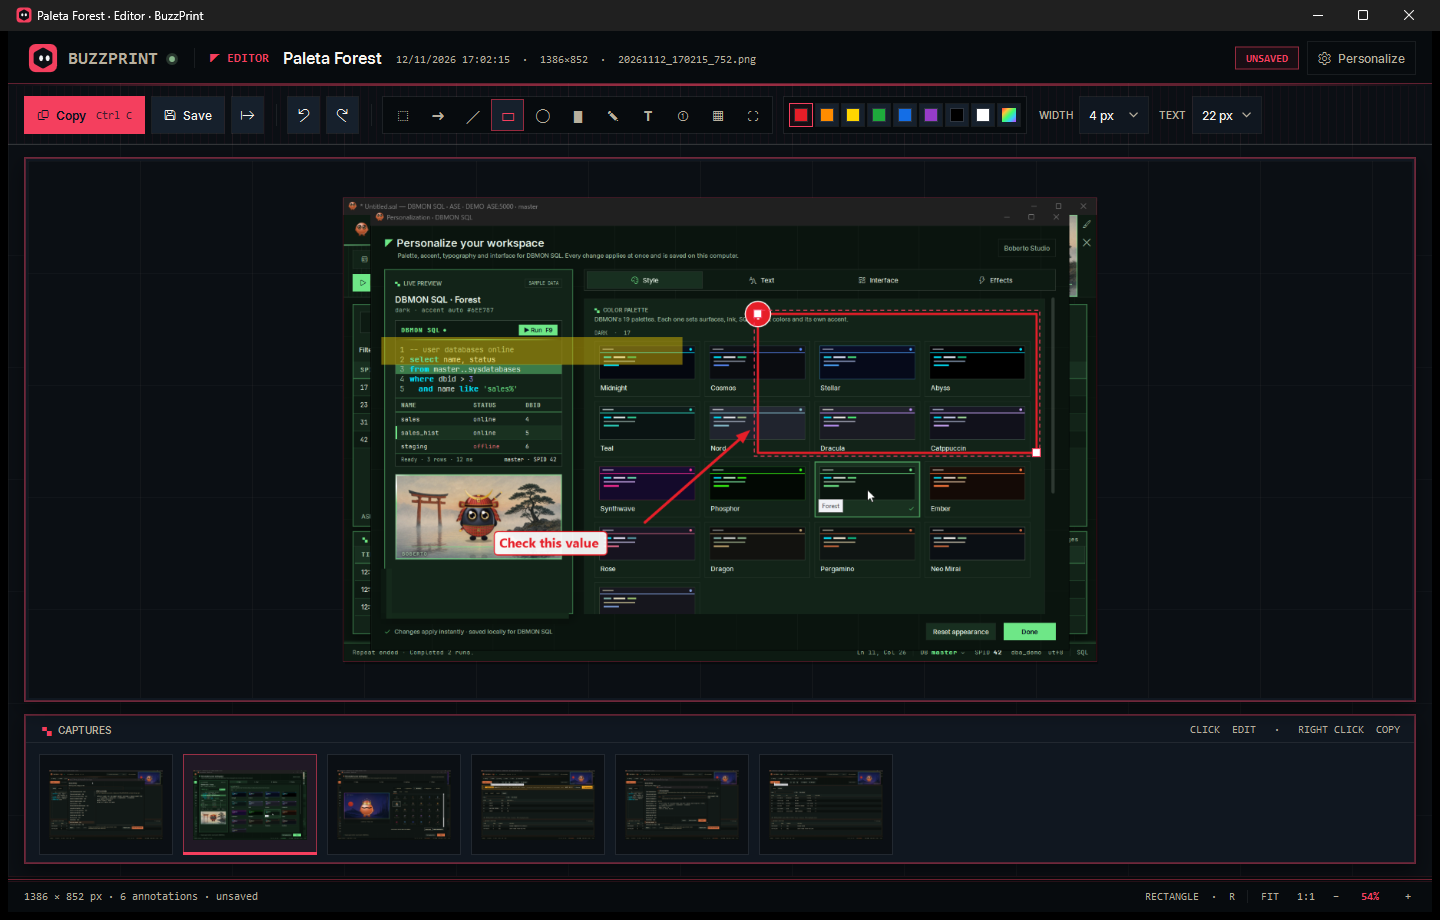
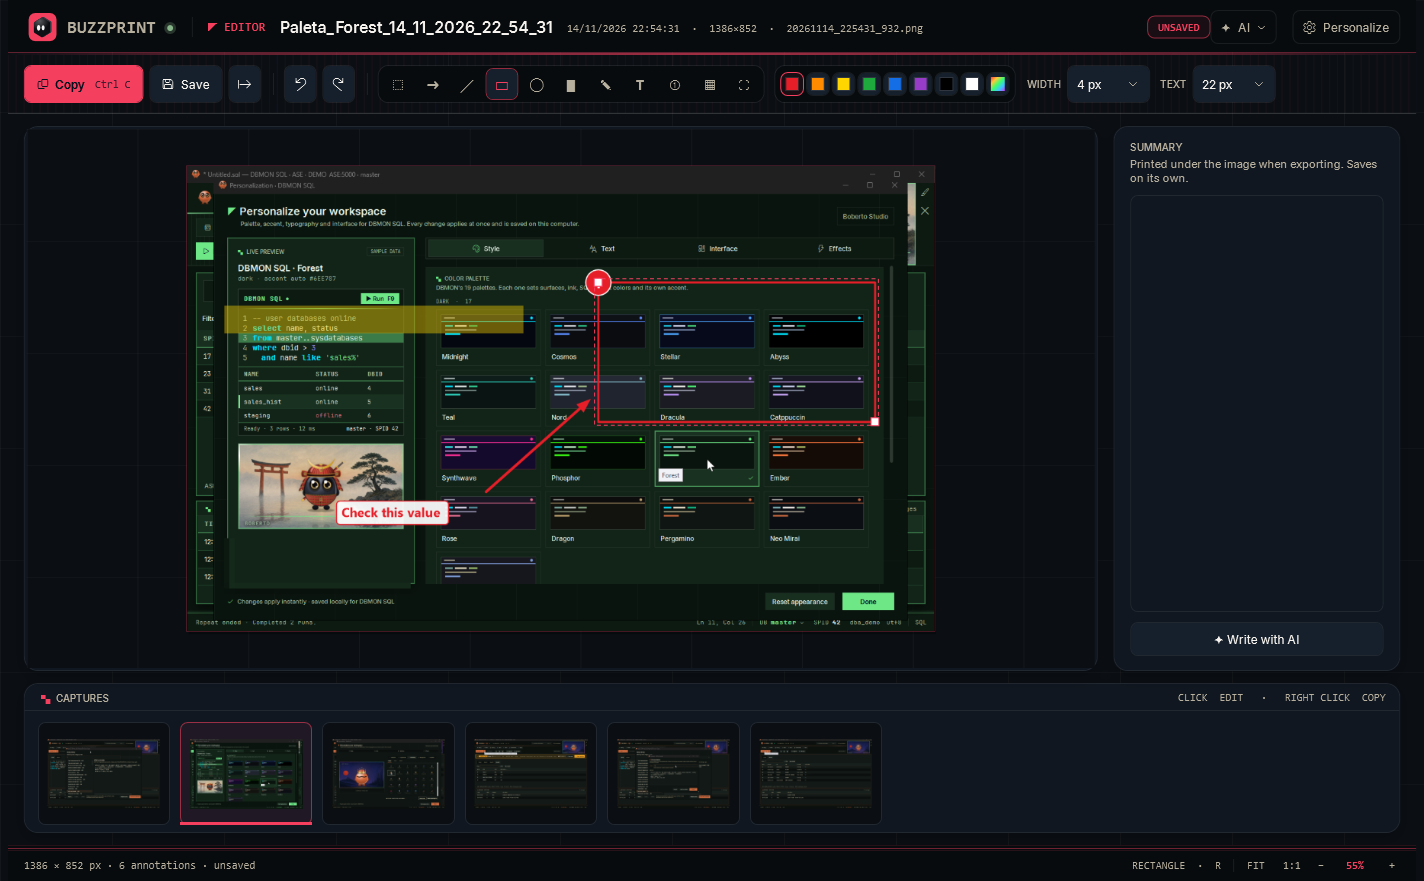
Release 0.5.0
Version 0.5.0; README covers the guide, document templates and the AI Preview build; fresh screenshots; build.ps1 names the AI Preview zip on its own (BuzzPrint-AI-Preview-<version>-win-x64.zip).

diff --git a/README.md b/README.md
@@ -1,6 +1,6 @@
 # BuzzPrint
 
-**Screen capture, recording and step-by-step docs for Windows.** Capture a region or window, record video and audio, annotate, pick any capture from a quick menu to paste it anywhere, and export a set of captures, in order, to PowerPoint, Word, PDF or a single image. With Boberto, a live companion you can dress up. English by default, Spanish built in. MIT licensed.
+**Screen capture, recording and step-by-step docs for Windows.** Capture a region or window, record video and audio, annotate, pick any capture from a quick menu to paste it anywhere, and export a set of captures, in order, to PowerPoint, Word, PDF or a single image with professional templates. An optional **AI Preview** build adds titles, summaries, step-by-step guides, incident reports and data redaction with the AI service you choose. With Boberto, a live companion you can dress up, and a built-in guide (`F1`). English by default, Spanish built in. MIT licensed.
 
 ![Library](docs/library.png)
 
@@ -12,9 +12,9 @@
 
 ## Download (no build needed)
 
-1. Download **`BuzzPrint-<version>-win-x64.zip`** from the [latest release](https://github.com/ChristianBuzzetti/BuzzPrint/releases/latest).
+1. Download **`BuzzPrint-<version>-win-x64.zip`** from the [latest release](https://github.com/ChristianBuzzetti/BuzzPrint/releases/latest) — or **`BuzzPrint-AI-Preview-<version>-win-x64.zip`** for the build with AI features.
 2. Extract it anywhere, for example `C:\Apps`. Avoid running it from inside the zip.
-3. Open `BuzzPrint\BuzzPrint.exe`.
+3. Open `BuzzPrint\BuzzPrint.exe` (or `BuzzPrint-AI-Preview\BuzzPrint.exe`). Both builds can run side by side: they keep separate settings.
 
 Nothing else to install: .NET is included. If FFmpeg (for recording) or WebView2 (for Boberto) is missing, BuzzPrint offers to download it when it's needed.
 
@@ -93,16 +93,19 @@ Your captures, recordings and settings are kept: they live outside the app folde
 
 ## Features
 
+- **Guide** (`F1`, Help → BuzzPrint guide, or the sidebar): every feature explained step by step, with search, shortcuts and buttons that open each feature. It's offered once on the first start.
+- **Document templates** (Export → Design → Change…): 12 built-in designs — Executive report, Consulting, Institutional, Technical report, Audit, Presentation, Corporate, Minimal, Editorial, Technical, Vibrant and BuzzPrint — with image covers, colored heading bands, footer bars with page numbers and a side-by-side PowerPoint layout. **Create template** builds your own (up to 12) with colors, fonts, cover and heading styles, footer, organization line and logo.
 - **Recording**: MP4 video (H.264) with system audio and/or microphone, or **audio only** (MP3). A floating bar shows the time and level, with Stop and Discard. The bar and the area frame never show up in the video. Recordings live in the **Recordings** tab: double-click plays them, `Ctrl+C` copies them as files, and you can drag them into other apps.
-- **Library**: All / Today / Pinned / Edited / Recordings tabs, search (`Ctrl+F`), double-click to edit, `Ctrl+C`, `F2` to rename, `Ctrl+P` to pin, `Del`, drag into other apps. New captures are named by kind and time, e.g. `Region_12_11_2026_16_05_33` (window captures use the window title).
+- **Library**: All / Today / Pinned / Edited / Recordings tabs, search (`Ctrl+F`), double-click to edit, `Ctrl+C`, `F2` to rename, `Ctrl+P` to pin, `Del` (to the Recycle Bin), drag into other apps. Search also finds the **text inside captures**, read on your PC with Windows' own recognition. Cards widen to fill each row. New captures are named by kind and time, e.g. `Region_12_11_2026_16_05_33` (window captures use the window title).
 - **Filters and sections**: filter by **day** (today, yesterday, last 7 days, this month or any specific day), by **section**, and **group** the library by day, section or source, with collapsible headers. Sections are your own groups (a project, a client, a topic): **New section**, right-click → **Move to section**, and Library → rename or delete a section (its captures stay in the library).
 - **Export** (`Ctrl+E`, the Export button or right-click): the selected captures, in order, to **PowerPoint** (one per slide, 16:9), **Word** (steps as navigable headings, page numbers in the footer), **PDF** or **one image**. Reorder by dragging, with `Alt+↑/↓` or by date; each capture gets a title and a note shown under the image (both saved back to the library). Options: cover, step numbers, source and date, one per page, landscape. If you picked captures one by one with `Ctrl+click`, that order is kept; otherwise they go in chronological order. Library → **Export today's…** builds the day's document in one step.
 - **Copy as one image** (`Ctrl+Shift+C`): stacks the selected captures, numbered and titled, into one image ready to paste into a chat or an email.
 - **Editor**: select, arrow, line, rectangle, ellipse, highlighter, pen, text, numbered steps, pixelate and crop (`V A L R E H P T N B C`), colors, stroke width, undo and redo, `Ctrl+wheel` zoom and a capture tray. Saving an edit **keeps the original**: the annotated version is saved as a new capture `<name>_edited` (turn this off in the options panel → *Keep the original when editing*). Annotations stay editable.
 - **Components**: .NET is inside the app. If FFmpeg is missing, BuzzPrint offers to download it the first time you record (official gyan.dev build, SHA-256 checked, kept in `%LOCALAPPDATA%\BuzzPrint\tools`). If WebView2 is missing, it offers Microsoft's installer (signature checked). Help → **Check components…** does both on demand.
-- **Personalize** (header or View menu): palette (23 palettes, 17 dark and 6 light, with an independent accent), fonts, corners, density, options panel, language, Boberto and animations. Clicking Boberto opens Boberto Studio.
-- **Logo** (Personalize → Effects → Logo): head shape (hexagon, circle, rounded, diamond, ghost), eyes (oval, round, happy, lines, pixel), head color and background (or your palette's accent). It restyles the header logo and the window and tray icons; the `.exe` icon stays the original. The logo is alive: its eyes follow the cursor, it blinks, and clicking it blinks both eyes, alternates them or double-blinks. It stays still with animations off.
+- **Personalize** (sidebar or View menu): palette (23 palettes, 17 dark and 6 light, with an independent accent), fonts, rounded or square panels and controls (separately), language, Boberto and animations. Clicking Boberto opens Boberto Studio.
+- **Logo** (Personalize → Effects & Logo): 14 head shapes, 6 eye styles, head and background colors (or any custom color, or your palette's accent). The head turns in 2.5D toward where it looks and spins now and then. It restyles the header logo and the window and tray icons; the `.exe` icon stays the original. The logo is alive: its eyes follow the cursor, it blinks, and clicking it blinks both eyes, alternates them or double-blinks. It stays still with animations off.
 - **Boberto**: ships with a black body, blue eyes, samurai helmet, Mirai night background and crossed frame (change it all in Studio). With an empty library he appears in the middle, watches the cursor and plays gestures; click for another one.
+- **AI Preview build** (optional, separate download): connect Claude, Gemini, ChatGPT, OpenRouter, a local Ollama or any OpenAI-compatible service (several connections, one in use; keys encrypted with your Windows user). Features: **title and summary** per capture (optionally automatic), **step-by-step guide** drafted from your captures, **protect data** (finds mails, IPs, keys, names and numbers and saves a pixelated copy), **ask about the capture**, **incident report** (copy formatted, save as image or text) and **organize the library** in a single request. Available from the library and from the editor. Nothing is sent unless you ask: every feature shows first which captures go to which service; a loading card can be cancelled and times out after 2 minutes without progress.
 - **Language**: English by default, Spanish available (Personalize → Interface → Language, or View → Language). The app restarts to apply it.
 - **System tray**: click = quick menu (or stop, while recording), double-click = library, right-click = menu.
 
